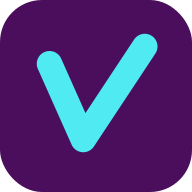
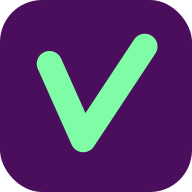
feat: rethme landing page

Changed region(s): [[0.1875, 0.1562, 0.8438, 0.8125]]

diff --git a/landing/src/index.css b/landing/src/index.css
@@ -12,10 +12,10 @@
   --color-fg: #f1effa;
   --color-muted: #b4b1d6;
   --color-dim: #9e9bc4;
-  /* Brand: cyan accent, plum surface. Contrast checked against ink, card and plum. */
-  --color-accent: #50eaf2; /* 12.63:1 on ink, 11.61:1 on card, 9.54:1 on plum */
-  --color-accent-hover: #86f1f6;
-  --color-accent-deep: #2bbcc4; /* progress border, 7.33:1 on card */
+  /* Brand: green accent, plum surface. Contrast checked against ink, card and plum. */
+  --color-accent: #7efca6; /* 12.36:1 on ink, 13.81:1 on card, 9.11:1 on the closing plum */
+  --color-accent-hover: #aafdc5; /* button text on it 14.83:1 */
+  --color-accent-deep: #4cd98a; /* run card border */
   --color-on-accent: #2a0835; /* dark purple text on cyan, 12.15:1; white on cyan fails (1.46:1) */
   --color-plum: #5c1373; /* closing section; fg 10.28:1, cyan 8.01:1 */
 
@@ -62,17 +62,17 @@ body {
 
 @keyframes vy-lift {
   0% {
-    box-shadow: 0 0 0 0 rgba(80, 234, 242, 0), 0 0 0 0 rgba(0, 0, 0, 0), 0 0 0 0 rgba(0, 0, 0, 0);
+    box-shadow: 0 0 0 0 transparent, 0 0 0 0 rgba(0, 0, 0, 0), 0 0 0 0 rgba(0, 0, 0, 0);
     transform: scale(1);
   }
   15%,
   60% {
-    box-shadow: 0 0 22px 2px rgba(80, 234, 242, 0.28), 0 0 60px 6px rgba(0, 0, 0, 0.7),
+    box-shadow: 0 0 22px 2px color-mix(in oklch, var(--color-accent) 28%, transparent), 0 0 60px 6px rgba(0, 0, 0, 0.7),
       0 0 18px 2px rgba(0, 0, 0, 0.5);
     transform: scale(1.035);
   }
   100% {
-    box-shadow: 0 0 0 0 rgba(80, 234, 242, 0), 0 0 0 0 rgba(0, 0, 0, 0), 0 0 0 0 rgba(0, 0, 0, 0);
+    box-shadow: 0 0 0 0 transparent, 0 0 0 0 rgba(0, 0, 0, 0), 0 0 0 0 rgba(0, 0, 0, 0);
     transform: scale(1);
   }
 }
@@ -98,7 +98,7 @@ body {
 
 .vy-reveal.is-visible:hover {
   transform: translateY(-4px);
-  border-color: rgba(80, 234, 242, 0.4);
+  border-color: color-mix(in oklch, var(--color-accent) 40%, transparent);
   transition-delay: 0ms !important;
 }
 

diff --git a/landing/src/components/RunCard.jsx b/landing/src/components/RunCard.jsx
@@ -100,12 +100,12 @@ export default function RunCard() {
         className="pointer-events-none absolute -top-px -left-px overflow-visible"
         style={{ width: "calc(100% + 2px)", height: "calc(100% + 2px)" }}
       >
-        <rect x="0.5" y="0.5" rx="16" ry="16" fill="none" stroke="#2bbcc4" strokeWidth="1"
+        <rect x="0.5" y="0.5" rx="16" ry="16" fill="none" stroke="var(--color-accent-deep)" strokeWidth="1"
           style={{ width: "calc(100% - 1px)", height: "calc(100% - 1px)" }} />
-        <rect x="8.5" y="8.5" rx="8" ry="8" fill="none" stroke="#2bbcc4" strokeWidth="1"
+        <rect x="8.5" y="8.5" rx="8" ry="8" fill="none" stroke="var(--color-accent-deep)" strokeWidth="1"
           style={{ width: "calc(100% - 17px)", height: "calc(100% - 17px)" }} />
         <rect ref={fillRef} x="4.5" y="4.5" rx="12" ry="12" pathLength="100" fill="none"
-          stroke="#2bbcc4" strokeWidth="7" strokeDasharray="100" strokeDashoffset="100"
+          stroke="var(--color-accent-deep)" strokeWidth="7" strokeDasharray="100" strokeDashoffset="100"
           style={{ width: "calc(100% - 9px)", height: "calc(100% - 9px)" }} />
       </svg>
 

diff --git a/landing/src/App.jsx b/landing/src/App.jsx
@@ -70,7 +70,7 @@ function LogoMark({ size = 28 }) {
   return (
     <svg aria-hidden="true" width={size} height={size} viewBox="0 0 512 512" fill="none">
       <rect width="512" height="512" rx="112" fill="#2a0835" />
-      <polyline points="132,170 222,372 386,124" stroke="#50eaf2" strokeWidth="68"
+      <polyline points="132,170 222,372 386,124" stroke="var(--color-accent)" strokeWidth="68"
         strokeLinecap="round" strokeLinejoin="round" fill="none" />
     </svg>
   );
